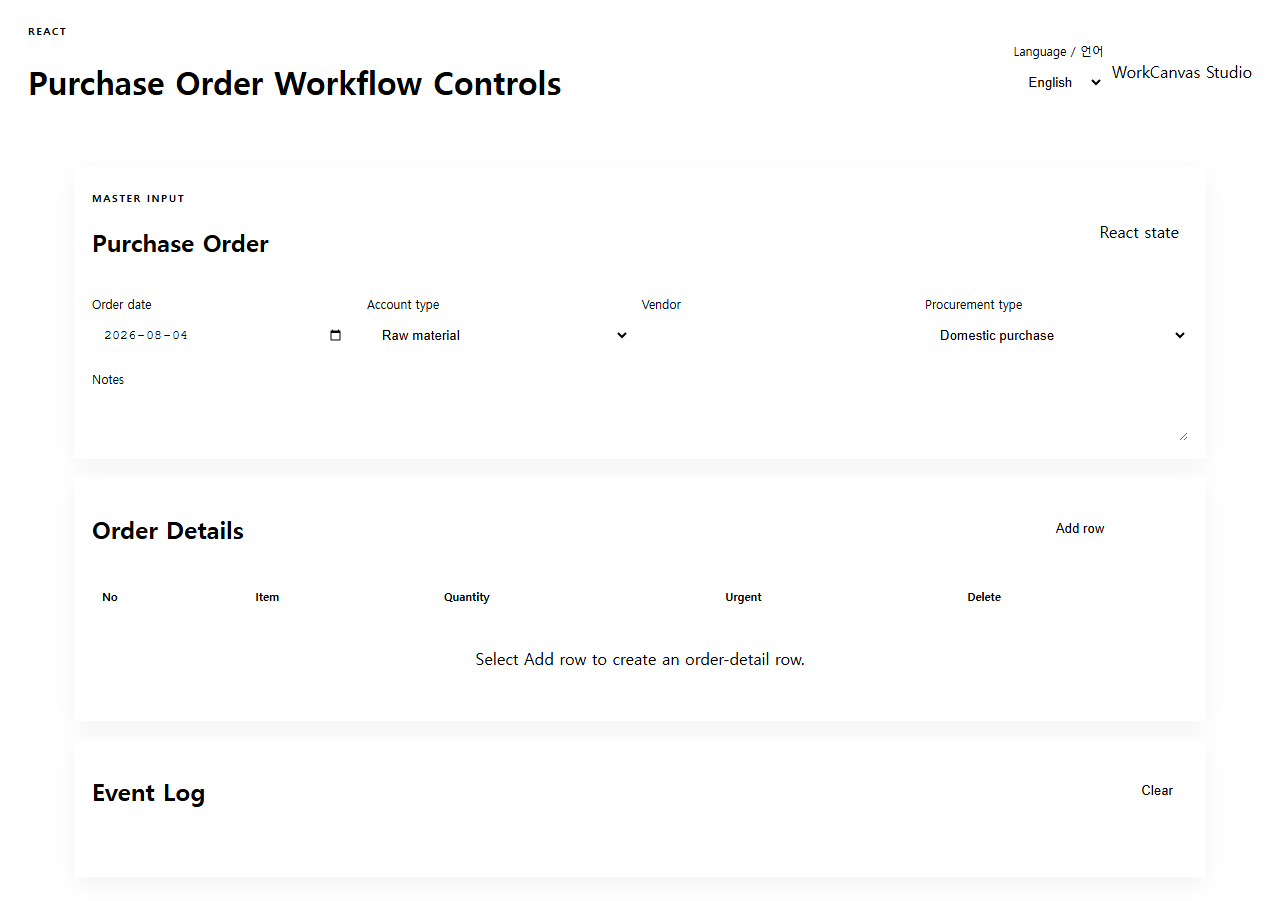
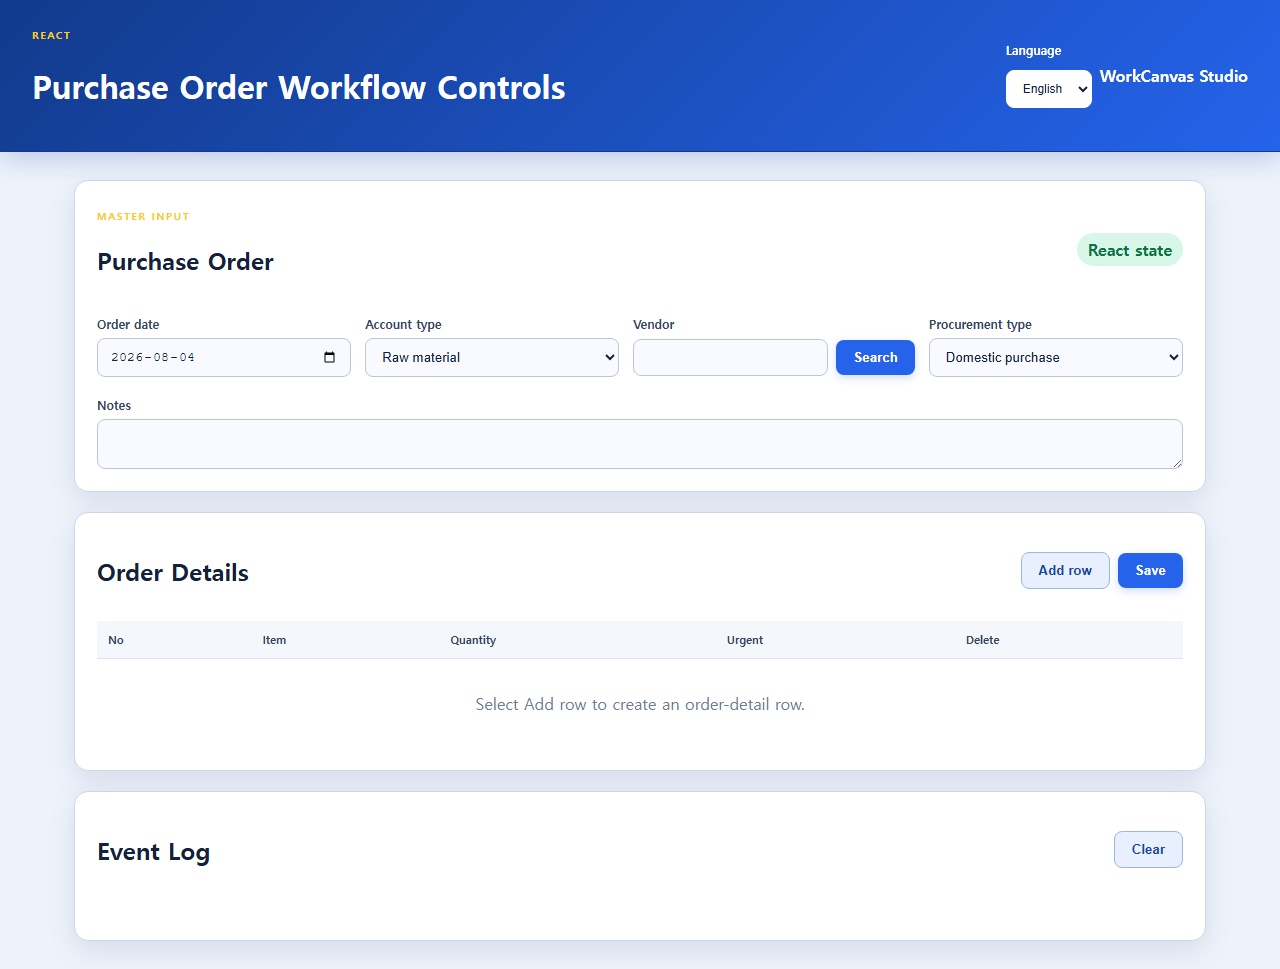
docs: refresh English-only demos with stronger contrast

diff --git a/web/samples/sample-controls.css b/web/samples/sample-controls.css
@@ -1,1 +1,1 @@
-body{background:var(--bg-surface);color:var(--text-primary);min-height:100vh}header{display:flex;justify-content:space-between;align-items:center;padding:18px 28px;background:var(--nav-bg);border-bottom:1px solid var(--border-main)}header a{color:var(--brand-primary);text-decoration:none}main{max-width:1180px;margin:0 auto;padding:24px;display:grid;gap:16px}.card,.dialog-card{background:var(--bg-card);border:1px solid var(--border-main);border-radius:var(--radius-lg);padding:18px;box-shadow:0 8px 24px rgba(0,0,0,.05)}.card-head,.actions,.input-action{display:flex;align-items:center;justify-content:space-between;gap:8px}.eyebrow{font-size:10px;letter-spacing:.16em;color:var(--brand-primary);font-weight:700}.form-grid{display:grid;grid-template-columns:repeat(4,1fr);gap:12px;margin:18px 0}label{display:grid;gap:6px;color:var(--text-label);font-size:12px}input,select{background:var(--inp-bg);color:var(--inp-text);border:1px solid var(--inp-border);border-radius:var(--radius-md);padding:9px 11px;outline:none;min-width:0}.input-action input{flex:1}.input-action button{white-space:nowrap}input:focus,select:focus{border-color:var(--inp-focus-border);box-shadow:0 0 0 3px var(--inp-focus-shadow)}button{border:0;border-radius:var(--radius-md);padding:9px 15px;background:var(--brand-btn);color:#fff;cursor:pointer}.secondary{background:var(--sec-btn-bg);color:var(--sec-btn-text);border:1px solid var(--sec-btn-border)}fieldset{border:1px solid var(--border-subtle);border-radius:var(--radius-md);padding:12px;margin-bottom:14px}.inline{display:inline-flex;align-items:center;margin-right:18px}.inline input{width:auto}.badge{padding:5px 9px;border-radius:99px;background:var(--color-success-bg);color:var(--color-success)}table{width:100%;border-collapse:collapse;margin-top:14px}th,td{padding:10px;border-bottom:1px solid var(--border-subtle);text-align:left}th{color:var(--text-label);font-size:11px}td input{width:100%}#eventLog{max-height:170px;overflow:auto;padding-left:24px;color:var(--text-secondary)}dialog{border:0;background:transparent;margin:auto;width:min(720px,90vw)}dialog::backdrop{background:rgba(0,0,0,.48)}.dialog-card{display:grid;gap:14px}@media(max-width:900px){.form-grid{grid-template-columns:1fr 1fr}}
+body{background:var(--bg-surface);color:var(--text-primary);min-height:100vh}header{display:flex;justify-content:space-between;align-items:center;padding:22px 32px;background:linear-gradient(135deg,#123a8c,#2563eb);color:#fff;border-bottom:1px solid #123a8c;box-shadow:0 8px 24px rgba(30,64,175,.22)}header a{color:#fff;text-decoration:none;font-weight:700}header label{color:#fff}header select{background:#fff;color:#15213a;border-color:#fff}main{max-width:1180px;margin:0 auto;padding:28px 24px;display:grid;gap:20px}.card,.dialog-card{background:var(--bg-card);border:1px solid var(--border-main);border-radius:var(--radius-lg);padding:22px;box-shadow:0 10px 28px rgba(42,67,110,.12)}.card-head,.actions,.input-action{display:flex;align-items:center;justify-content:space-between;gap:8px}.eyebrow{font-size:10px;letter-spacing:.16em;color:#facc15;font-weight:800}.form-grid{display:grid;grid-template-columns:repeat(4,1fr);gap:14px;margin:20px 0}label{display:grid;gap:6px;color:var(--text-label);font-size:12px;font-weight:600}input,select{background:var(--inp-bg);color:var(--inp-text);border:1px solid var(--inp-border);border-radius:var(--radius-md);padding:10px 12px;outline:none;min-width:0}.input-action input{flex:1}.input-action button{white-space:nowrap}input:focus,select:focus,textarea:focus{border-color:var(--inp-focus-border);box-shadow:0 0 0 3px var(--inp-focus-shadow)}button{border:0;border-radius:var(--radius-md);padding:10px 17px;background:var(--brand-btn);color:#fff;font-weight:700;cursor:pointer;box-shadow:0 3px 8px rgba(37,99,235,.22)}button:hover{background:#174fc4;transform:translateY(-1px)}.secondary{background:var(--sec-btn-bg);color:var(--sec-btn-text);border:1px solid var(--sec-btn-border);box-shadow:none}fieldset{border:1px solid var(--border-subtle);border-radius:var(--radius-md);padding:14px;margin-bottom:16px;background:#f8faff}.inline{display:inline-flex;align-items:center;margin-right:18px}.inline input{width:auto}.badge{padding:6px 11px;border-radius:99px;background:var(--color-success-bg);color:var(--color-success);font-weight:700}table{width:100%;border-collapse:collapse;margin-top:14px}th,td{padding:11px;border-bottom:1px solid var(--border-subtle);text-align:left}th{color:var(--text-label);font-size:11px;background:#f4f7fc}td input{width:100%}#eventLog{max-height:170px;overflow:auto;padding-left:24px;color:var(--text-secondary)}dialog{border:0;background:transparent;margin:auto;width:min(720px,90vw)}dialog::backdrop{background:rgba(10,24,52,.62)}.dialog-card{display:grid;gap:14px}.react-modal{position:fixed;inset:0;background:rgba(10,24,52,.62);display:grid;place-items:center;padding:20px}.react-modal .dialog-card{width:min(720px,90vw)}textarea{background:var(--inp-bg);color:var(--inp-text);border:1px solid var(--inp-border);border-radius:var(--radius-md);padding:10px 12px;outline:none}.empty{padding:18px;color:var(--text-muted);text-align:center}@media(max-width:900px){.form-grid{grid-template-columns:1fr 1fr}}

diff --git a/scripts/capture-demos.ts b/scripts/capture-demos.ts
@@ -26,8 +26,6 @@ async function captureStandardHtml(): Promise<void> {
   await page.goto(`${baseUrl}/samples/standard-controls.html`);
   await pause(page);
   await page.screenshot({ path: resolve(mediaDir, "standard-html.png"), fullPage: true });
-  await page.locator("#language").selectOption("ko"); await pause(page, 500);
-  await page.locator("#language").selectOption("en"); await pause(page, 500);
   await page.getByRole("button", { name: "Open item search dialog" }).click(); await pause(page);
   await page.getByTestId("popup-item-keyword").fill("ITEM-001");
   await page.getByRole("button", { name: "Query" }).last().click(); await pause(page);
@@ -46,8 +44,6 @@ async function captureReact(): Promise<void> {
   await page.goto(`${baseUrl}/samples/react/`);
   await pause(page);
   await page.screenshot({ path: resolve(mediaDir, "react.png"), fullPage: true });
-  await page.getByLabel("Language / 언어").selectOption("ko"); await pause(page, 500);
-  await page.getByLabel("Language / 언어").selectOption("en"); await pause(page, 500);
   await page.getByTestId("note").fill("Public workflow sample"); await pause(page, 400);
   await page.getByRole("button", { name: "Search" }).click(); await pause(page);
   await page.getByTestId("vendor-keyword").fill("Wonjin");

diff --git a/web/variables.css b/web/variables.css
@@ -1,3 +1,3 @@
 /* Shared public design tokens. / 공개 샘플 공통 디자인 토큰. */
-:root{--bg:#f5f7fb;--card:#fff;--text:#172033;--muted:#657087;--brand:#315efb;--border:#dbe1ea;--radius:12px;color-scheme:light}
+:root{color-scheme:light;--bg:#eef3fb;--bg-surface:#eef3fb;--bg-card:#fff;--nav-bg:#fff;--text:#15213a;--text-primary:#15213a;--text-label:#344563;--text-secondary:#52627d;--text-muted:#6e7c93;--brand:#1d4ed8;--brand-primary:#1d4ed8;--brand-btn:#2563eb;--border:#cbd6e6;--border-main:#cbd6e6;--border-subtle:#dce4ef;--inp-bg:#f8faff;--inp-text:#15213a;--inp-border:#b9c7dc;--inp-focus-border:#2563eb;--inp-focus-shadow:rgba(37,99,235,.2);--sec-btn-bg:#e8efff;--sec-btn-text:#1746a2;--sec-btn-border:#9cb6e8;--color-success:#087443;--color-success-bg:#d9f7e8;--radius:12px;--radius-md:8px;--radius-lg:14px}
 *{box-sizing:border-box}body{margin:0;background:var(--bg);color:var(--text);font-family:Inter,ui-sans-serif,system-ui,-apple-system,"Segoe UI",sans-serif}a{color:var(--brand)}

diff --git a/web/samples/react-controls.css b/web/samples/react-controls.css
@@ -2,3 +2,6 @@
 .react-modal .dialog-card { width: min(720px, 90vw); }
 textarea { background: var(--inp-bg); color: var(--inp-text); border: 1px solid var(--inp-border); border-radius: var(--radius-md); padding: 9px 11px; outline: none; }
 .empty { padding: 18px; color: var(--text-muted); text-align: center; }
+.actions label { font-size: 0; }
+.actions label::before { content: "Language"; font-size: 12px; }
+.actions label select { font-size: 12px; }

diff --git a/README.md b/README.md
@@ -10,7 +10,7 @@ Both interactive samples use English by default and include an English/Korean la
 
 ### Standard HTML inventory workflow
 
-Language switching, semantic item dialog, query execution, and exact row addition:
+Semantic item dialog, query execution, and exact row addition in the English interface:
 
 ![Standard HTML workflow demo](docs/media/standard-html-demo.gif)
 
